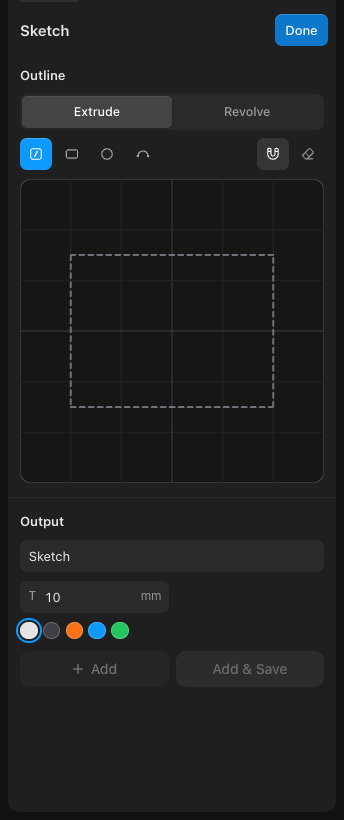
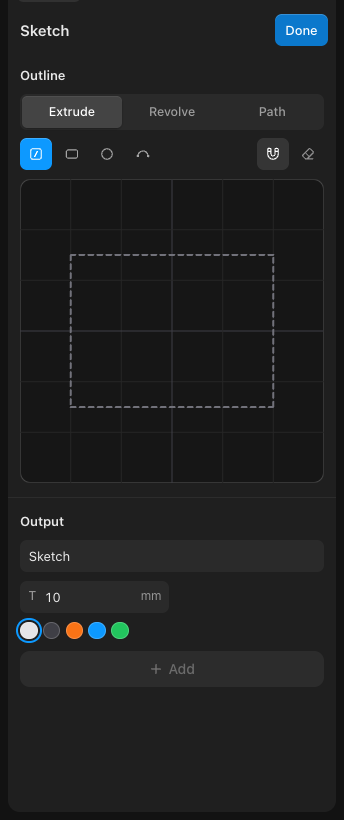
Give Path its own undo, fit short strokes to 12 points, label synthesize_linkage
In Path mode the sketch plane's own-edit listener sent ⌘Z and ⇧⌘Z to the
hidden Extrude or Revolve sketch. Path now keeps its own history of
points. useSketchKeys takes the path and sends undo, redo and delete to
it, both from keys and from the app menu. Digit typing is off in Path.

A quick drag with few samples now resamples to 12 points instead of
replacing the clicked points with 3 or 4. synthesize_linkage gets the
readiness line when it inserts, and a tool label in the agent panel.
The path accent comes from the theme. The help step and the changelog
wording follow §3f.

The two Sketch help screenshots that show a new sketch's Outline control
are recaptured, since it now offers Extrude, Revolve and Path.

diff --git a/src/components/studio/useSketchPath.ts b/src/components/studio/useSketchPath.ts
@@ -17,9 +17,39 @@ const near = (a: Vec2, b: Vec2, tolerance: number) => Math.hypot(a[0] - b[0], a[
 const strokeLength = (stroke: Vec2[]) =>
   stroke.reduce((s, p, i) => (i ? s + Math.hypot(p[0] - stroke[i - 1][0], p[1] - stroke[i - 1][1]) : 0), 0);
 
+function usePathHistory(editor: SketchPathEditor) {
+  const [past, setPast] = useState<Vec2[][]>([]);
+  const [future, setFuture] = useState<Vec2[][]>([]);
+
+  const commit = (next: Vec2[]) => {
+    setPast([...past, editor.points]);
+    setFuture([]);
+    editor.onChange(next);
+  };
+
+  const undo = () => {
+    if (!past.length) return;
+
+    setPast(past.slice(0, -1));
+    setFuture([editor.points, ...future]);
+    editor.onChange(past[past.length - 1]);
+  };
+
+  const redo = () => {
+    if (!future.length) return;
+
+    setPast([...past, editor.points]);
+    setFuture(future.slice(1));
+    editor.onChange(future[0]);
+  };
+
+  return { commit, undo, redo };
+}
+
 export function useSketchPath(editor: SketchPathEditor, grid: number | null) {
   const [gesture, setGesture] = useState<Gesture | null>(null);
   const [preview, setPreview] = useState<Vec2[] | null>(null);
+  const history = usePathHistory(editor);
 
   const press = (at: Vec2, tolerance: number) => {
     const index = editor.points.findIndex((p) => near(p, at, tolerance));
@@ -43,7 +73,7 @@ export function useSketchPath(editor: SketchPathEditor, grid: number | null) {
   };
 
   const release = () => {
-    if (gesture?.kind === 'drag' && preview) editor.onChange(preview);
+    if (gesture?.kind === 'drag' && preview) history.commit(preview);
 
     if (gesture?.kind === 'stroke') finishStroke(gesture.stroke, gesture.tolerance);
 
@@ -53,17 +83,28 @@ export function useSketchPath(editor: SketchPathEditor, grid: number | null) {
 
   const finishStroke = (stroke: Vec2[], tolerance: number) => {
     if (strokeLength(stroke) > tolerance * 3) {
-      editor.onChange(resampled(stroke, MAX_PATH_POINTS).map((p) => snapped(p, grid)));
+      history.commit(resampled(stroke, MAX_PATH_POINTS).map((p) => snapped(p, grid)));
 
       return;
     }
 
-    if (editor.points.length < MAX_PATH_POINTS) editor.onChange([...editor.points, snapped(stroke[0], grid)]);
+    if (editor.points.length < MAX_PATH_POINTS) history.commit([...editor.points, snapped(stroke[0], grid)]);
   };
 
-  const dropLast = () => editor.onChange(editor.points.slice(0, -1));
+  const dropLast = () => {
+    if (editor.points.length) history.commit(editor.points.slice(0, -1));
+  };
 
-  return { shown: preview ?? editor.points, dragging: !!gesture, press, move, release, dropLast };
+  return {
+    shown: preview ?? editor.points,
+    dragging: !!gesture,
+    press,
+    move,
+    release,
+    dropLast,
+    undo: history.undo,
+    redo: history.redo,
+  };
 }
 
 export type SketchPath = ReturnType<typeof useSketchPath>;

diff --git a/src/components/studio/useSketchKeys.ts b/src/components/studio/useSketchKeys.ts
@@ -4,6 +4,7 @@ import { OWN_EDIT_EVENT } from '../routines/useRoutineKeys';
 import { dimensionLabels } from './sketchMarks';
 import { formatMm } from './sketchView';
 import type { SketchDrawing, SketchEditor } from './useSketchDrawing';
+import type { SketchPath } from './useSketchPath';
 import type { SketchSelection } from './useSketchSelection';
 import type { SketchTool } from './useStudioDraft';
 
@@ -17,6 +18,7 @@ interface KeyOptions {
   tool: SketchTool | null;
   onTool: (tool: SketchTool | null) => void;
   rootRef: React.RefObject<HTMLDivElement | null>;
+  path: SketchPath | null;
 }
 
 function useRefocus(rootRef: React.RefObject<HTMLDivElement | null>, fieldOpen: boolean) {
@@ -28,7 +30,7 @@ function useRefocus(rootRef: React.RefObject<HTMLDivElement | null>, fieldOpen: 
   }, [rootRef, fieldOpen]);
 }
 
-export function useSketchKeys({ editor, drawing, selection, tool, onTool, rootRef }: KeyOptions) {
+export function useSketchKeys({ editor, drawing, selection, tool, onTool, rootRef, path }: KeyOptions) {
   const lastKey = useRef(0);
 
   useRefocus(rootRef, !!selection.editing || !!drawing.typed);
@@ -54,13 +56,19 @@ export function useSketchKeys({ editor, drawing, selection, tool, onTool, rootRe
     return true;
   };
 
-  const actions: Record<string, () => boolean> = {
+  const sketchActions: Record<string, () => boolean> = {
     undo: () => (editor.undo?.(), true),
     redo: () => (editor.redo?.(), true),
     delete: () => (selection.remove(), true),
     escape,
     enter: () => editSelected(),
   };
+
+  const pathActions: Record<string, () => boolean> = path
+    ? { undo: () => (path.undo(), true), redo: () => (path.redo(), true), delete: () => (path.dropLast(), true) }
+    : {};
+
+  const actions = path ? pathActions : sketchActions;
 
   const onMenu = useEffectEvent((e: Event) => {
     const action = String((e as CustomEvent).detail);
@@ -95,7 +103,7 @@ export function useSketchKeys({ editor, drawing, selection, tool, onTool, rootRe
     if (e.target !== e.currentTarget) return;
 
     const action = actionFor(e);
-    const typed = DIGIT.test(e.key) && (drawing.startTyping(e.key) || editSelected(e.key));
+    const typed = !path && DIGIT.test(e.key) && (drawing.startTyping(e.key) || editSelected(e.key));
     const handled = typed || (!!action && Object.hasOwn(actions, action) && actions[action]());
 
     if (!handled) return;

diff --git a/e2e/linkage.e2e.test.ts b/e2e/linkage.e2e.test.ts
@@ -21,6 +21,7 @@ const plane = () => app.page.locator(shown('[data-testid="sketch-plane"]'));
 const pathTab = () => app.page.locator(shown('[role="tab"]'), { hasText: /^Path$/ });
 const choices = () => app.page.locator(shown('button'), { hasText: /^\d+\.\d mm$/ });
 const drawn = () => app.page.locator(shown('[data-testid="linkage-solution"]'));
+const pathPoints = () => plane().locator('[data-testid="path-point"]');
 
 type Studio = {
   sceneRecord: () => { parts: ScenePart[]; project: { joints?: RobotJoint[] } };
@@ -76,7 +77,7 @@ afterAll(async () => {
 describe('a four-bar from a path drawn in Sketch', () => {
   let before = 0;
 
-  it('offers linkages for a path, drawn over the sketch with their error in mm', async () => {
+  it('keeps its own undo for clicked points, then offers linkages drawn over the sketch with their error in mm', async () => {
     before = await partCount(app.page);
     await app.page.keyboard.press('Meta+k');
     await app.page.keyboard.type('Sketch');
@@ -84,6 +85,24 @@ describe('a four-bar from a path drawn in Sketch', () => {
     await expect.poll(() => plane().count()).toBe(1);
 
     await pathTab().click();
+
+    for (const [x, y] of [
+      [0.3, 0.3],
+      [0.5, 0.6],
+      [0.7, 0.4],
+    ]) {
+      const box = (await plane().boundingBox())!;
+
+      await app.page.mouse.click(box.x + box.width * x, box.y + box.height * y);
+    }
+
+    await expect.poll(() => pathPoints().count()).toBe(3);
+    await app.page.keyboard.press('Meta+z');
+    await expect.poll(() => pathPoints().count()).toBe(2);
+    await app.page.keyboard.press('Meta+Shift+z');
+    await expect.poll(() => pathPoints().count()).toBe(3);
+    expect(await partCount(app.page)).toBe(before);
+
     await app.page.evaluate((points) => (window as unknown as { __studio: Studio }).__studio.sketchPath(points), PATH);
 
     await expect.poll(() => choices().count(), { timeout: 20000 }).toBeGreaterThan(0);

diff --git a/src/components/studio/SketchPathLayer.tsx b/src/components/studio/SketchPathLayer.tsx
@@ -2,9 +2,9 @@ import React from 'react';
 import { linkageFrames, tracedPath, type LinkageFrame } from '../../linkage/linkageFrames';
 import type { LinkageSolution, Vec2 } from '../../utils/linkage';
 import type { Sketch } from '../../utils/sketch/types';
+import { THEME_COLORS } from '../../design-system';
 import { toSvg, type SketchView } from './sketchView';
 
-export const PATH_ACCENT = '#0d99ff';
 export const PATH_MUTED = '#a3a3a3';
 
 const thin = { vectorEffect: 'non-scaling-stroke' as const };
@@ -60,7 +60,7 @@ const Solution: React.FC<{ solution: LinkageSolution; highlighted: boolean; dot:
   dot,
 }) => {
   const frames = linkageFrames(solution, STEPS);
-  const color = highlighted ? PATH_ACCENT : PATH_MUTED;
+  const color = highlighted ? THEME_COLORS.figmaBlue : PATH_MUTED;
 
   return (
     <g opacity={highlighted ? 1 : 0.5} data-testid="linkage-solution">
@@ -107,6 +107,7 @@ export const SketchPathLayer: React.FC<SketchPathLayerProps> = ({ points, soluti
       {points.map((p, i) => (
         <circle
           key={i}
+          data-testid="path-point"
           cx={toSvg(p)[0]}
           cy={toSvg(p)[1]}
           r={dot * 1.4}

diff --git a/src/components/studio/SketchCanvas.tsx b/src/components/studio/SketchCanvas.tsx
@@ -140,16 +140,15 @@ export const SketchCanvas: React.FC<SketchCanvasProps> = ({ editor, tool, onTool
     gestures.move(at, tolerance);
   };
 
-  const sketchKeys = useSketchKeys({ editor, drawing, selection, tool, onTool, rootRef: containerRef });
-
-  const onKeyDown = (e: React.KeyboardEvent<HTMLDivElement>) => {
-    if (!path) return sketchKeys(e);
-
-    if (e.key !== 'Backspace' && e.key !== 'Delete') return;
-
-    e.preventDefault();
-    pathing.dropLast();
-  };
+  const onKeyDown = useSketchKeys({
+    editor,
+    drawing,
+    selection,
+    tool,
+    onTool,
+    rootRef: containerRef,
+    path: path ? pathing : null,
+  });
 
   const ringClass = refused || path?.unsolvable ? 'ring-red-500' : 'ring-white/[0.06] focus-visible:ring-white/20';
 

diff --git a/src/components/studio/LinkageChoices.tsx b/src/components/studio/LinkageChoices.tsx
@@ -1,6 +1,7 @@
 import React from 'react';
 import type { LinkageSolution } from '../../utils/linkage';
-import { PATH_ACCENT, PATH_MUTED } from './SketchPathLayer';
+import { THEME_COLORS } from '../../design-system';
+import { PATH_MUTED } from './SketchPathLayer';
 
 interface LinkageChoicesProps {
   solutions: LinkageSolution[];
@@ -22,7 +23,7 @@ export const LinkageChoices: React.FC<LinkageChoicesProps> = ({ solutions, highl
       >
         <span
           className="w-4 h-0.5 rounded-full shrink-0"
-          style={{ background: i === highlighted ? PATH_ACCENT : PATH_MUTED }}
+          style={{ background: i === highlighted ? THEME_COLORS.figmaBlue : PATH_MUTED }}
         />
         {`${s.maxErrorMm.toFixed(1)} mm`}
       </button>

diff --git a/src/components/agent/toolRules.ts b/src/components/agent/toolRules.ts
@@ -232,6 +232,7 @@ const REVIEW_RULES: ToolRule[] = [
   plainRule(['verify_design'], CheckIcon, ['Verifying the design', 'Verified the design']),
   plainRule(['get_bom'], FileIcon, ['Reading the parts list', 'Read the parts list']),
   plainRule(['size_actuators'], JointsIcon, ['Sizing the actuators', 'Sized the actuators']),
+  plainRule(['synthesize_linkage'], JointsIcon, ['Fitting a four-bar', 'Fitted a four-bar']),
   plainRule(['sweep_design'], RunIcon, ['Comparing design options', 'Compared design options']),
   plainRule(['set_build'], FileIcon, ['Updating the build', 'Updated the build']),
   plainRule(['build_guide'], FileIcon, ['Making the build guide', 'Made the build guide']),

diff --git a/src/linkage/linkageFrames.ts b/src/linkage/linkageFrames.ts
@@ -30,7 +30,7 @@ export const tracedPath = (solution: LinkageSolution, samples: number): Vec2[] =
   couplerCurve(solution.linkage, solution.crank[0], solution.crank[1], samples);
 
 export function resampled(stroke: Vec2[], count: number): Vec2[] {
-  if (stroke.length <= count) return stroke;
+  if (stroke.length < 2) return stroke;
 
   const lengths = [0];
 

diff --git a/docs/guide/agent.md b/docs/guide/agent.md
@@ -75,7 +75,7 @@ Silhouette and proportion scores (what the bench measures today) matter less tha
   - **Text fields never refuse a call:** a `name`, `group` or `note` past its limit (60, 40, 400 characters, `cad-mcp/textLimits.mjs`) is cut and the result says so (“Cut the note of head-face to 400 characters.”). A schema `max` there used to reject the whole `model_part` call, code included, before it compiled.
   - `find_in_scene` finds parts by words, group, kind, a region or nearness; `get_scene` over 20 parts returns a summary per group (box and ids), with full lines for `ids` / `group`. `get_part_code` suggests the nearest ids for an unknown one.
   - **Booleans** (§7a): `snapshotScene` reports a boolean part with its operands nested (`operands`, each with `operandOf`), and `sceneText` lists it as `boolean(subtract)` (or `union`, `intersect`) with `operands=[<base>,<tool>…]`, base first, then each operand on its own line, indented two spaces and marked `operand-of=<result>`, with the same fields as any part; nested booleans indent again. Asking `get_scene` for an operand id returns its whole boolean. `update_parts` and `delete_parts` take operand ids (`applyAgentOps` finds them with `findPartDeep`, and `commitParts` routes the edit into the boolean), so moving, resizing or rotating an operand re-cuts the result instead of the agent redoing the cut. `check_scene` never calls a boolean a block-out primitive.
-  - `get_readiness` returns the verdict from Checks (§8b), the one thing that may call a design ready; the prompt forbids saying so otherwise. **Holding the agent to it:** edit tools (`EDITS`, `cad-mcp/readinessTools.mjs`) end with “Build check: blockers 3 → 4. New: …” from the latest finished run, which they also trigger (`readiness_line`). When a turn ends having added blockers, the app sends a follow-up prompt, at most 2 per user message (`workspace/readinessGate.ts`, Settings → Build), for any agent; it skips stopped and failed turns, queued messages and block-outs. `dispute_finding` records doubts.
+  - `get_readiness` returns the verdict from Checks (§8b), the one thing that may call a design ready; the prompt forbids saying so otherwise. **Holding the agent to it:** edit tools (`EDITS`, `cad-mcp/readinessTools.mjs`, and `synthesize_linkage` when it inserts) end with “Build check: blockers 3 → 4. New: …” from the latest finished run, which they also trigger (`readiness_line`). When a turn ends having added blockers, the app sends a follow-up prompt, at most 2 per user message (`workspace/readinessGate.ts`, Settings → Build), for any agent; it skips stopped and failed turns, queued messages and block-outs. `dispute_finding` records doubts.
   - `add_sourced_item` and `import_maker_cad` (§8a) mean the catalog never limits a design: “it isn't in the catalog” stops being a reason to compromise.
   - `check_assembly` (`src/assembly/`, analysis worker, 30 s box; at most 12 lines; rows `get_readiness` counts are marked BLOCKER): fastener chains (stack, thread end, engagement ≥ 1.5·D or the insert length if shorter, tip in air, uncut hole, unseated or sunk head, tip past its insert, orphan insert), what holds each part (a fastener or 2 mm pocket capture; notes like a strap are unverified), the removal-order fixed point with straight, L-key and ball-end drivers (a move ignores rays that only graze a contact face; a part caught only by a shallow lip, at most 3 mm deep and a tenth of its samples, comes off “with a tilt or flex”, a note to check by hand), “drive before installing X” build notes, EN 45554 service steps (battery 2, electronics 5, servos 10; servo rows are pessimistic until units can come out whole) and split planes for parts that enclose their contents. The bridge also returns its plan, service rows and enclosures as data, for the micro-eval graders.
   - `sweep_design` (`utils/designSweep.ts`, `agentSweepRequest.ts`) tries one parameter (a servo for a set of joints, a battery offset, foot length or width) on copies of the scene in memory and returns deltas in static torque, servo price, the cheapest passing set, stability and a derated hold-and-shove sim in a worker. It never edits the scene.

diff --git a/site/content/changelog/2026-11-13-design-a-linkage-from-a-path.md b/site/content/changelog/2026-11-13-design-a-linkage-from-a-path.md
@@ -8,10 +8,10 @@ You can now draw the path a leg or finger should trace, and Basecase fits a four
 
 Path is the third mode in Sketch, beside Extrude and Revolve. A walking leg is designed by the curve its foot traces. The `four_bar` recipe could build one, but someone had to guess its four link lengths and its coupler point.
 
-Click 5 to 12 points, and up to three linkages sweep over the sketch in under a second. Each one lists its largest path error in mm, and the same points always give the same linkages. Picking one adds Ground, Crank, Coupler and Rocker bars from the `four_bar` recipe, plus a Feetech STS3215 that turns the crank across the drawn path. The servo goes through the torque and sweep checks like any joint, and Pose moves the whole linkage.
+From 5 to 12 points, up to three linkages sweep over the sketch in under a second. Each one lists its largest path error in mm, and the same points always give the same linkages. Picking one adds Ground, Crank, Coupler and Rocker bars from the `four_bar` recipe, plus a Feetech STS3215 that turns the crank across the drawn path. The servo goes through the torque and sweep checks like any joint, and Pose moves the whole linkage.
 
 The agent fits linkages with the same solver through its `synthesize_linkage` tool.
 
-Closed loops aren't simulated yet. In Simulate, the coupler rides the crank as one rigid arm. Links stay between 10 and 300 mm, so points farther apart than that get no linkage.
+Closed loops aren't simulated: in Simulate, the coupler rides the crank as one rigid arm. Links stay between 10 and 300 mm, so points farther apart than that get no linkage.
 
 Steps are in [Design a linkage from a path](/help/design-a-linkage-from-a-path).

diff --git a/site/content/help/design-a-linkage-from-a-path.md b/site/content/help/design-a-linkage-from-a-path.md
@@ -41,13 +41,13 @@ Draw the path a leg, finger or head should trace, and get a four-bar linkage tha
 
    ![Three linkages over a foot path, with their errors listed below the plane](/help/design-a-linkage-from-a-path/linkages.png)
 
-6. Click the row of the linkage you want to add it to the scene.
+6. Below the plane, click the row of the linkage to add.
 
 The linkage lands on the sketch's plane as four printed bars, **Ground**, **Crank**, **Coupler** and **Rocker**, with a Feetech STS3215 under the crank. The servo stands on the plane and turns the crank across the path you drew. Press ⌘Z to remove it.
 
 ![The four bars and the servo added to the scene](/help/design-a-linkage-from-a-path/inserted.png)
 
-You can also drag across the plane to draw the path in one stroke, which keeps 12 points along it. Drag a point to move it, or press Delete to remove the last one.
+You can also drag across the plane to draw the path in one stroke, which keeps 12 points along it. Drag a point to move it, or press Delete to remove the last one. ⌘Z and ⇧⌘Z undo and redo your points.
 
 When no linkage fits, the plane's border turns red. Links stay between 10 and 300 mm, so points too far apart get none. The linkage moves in Pose, but closed loops aren't simulated: in Simulate the coupler rides the crank as one rigid arm.
 
